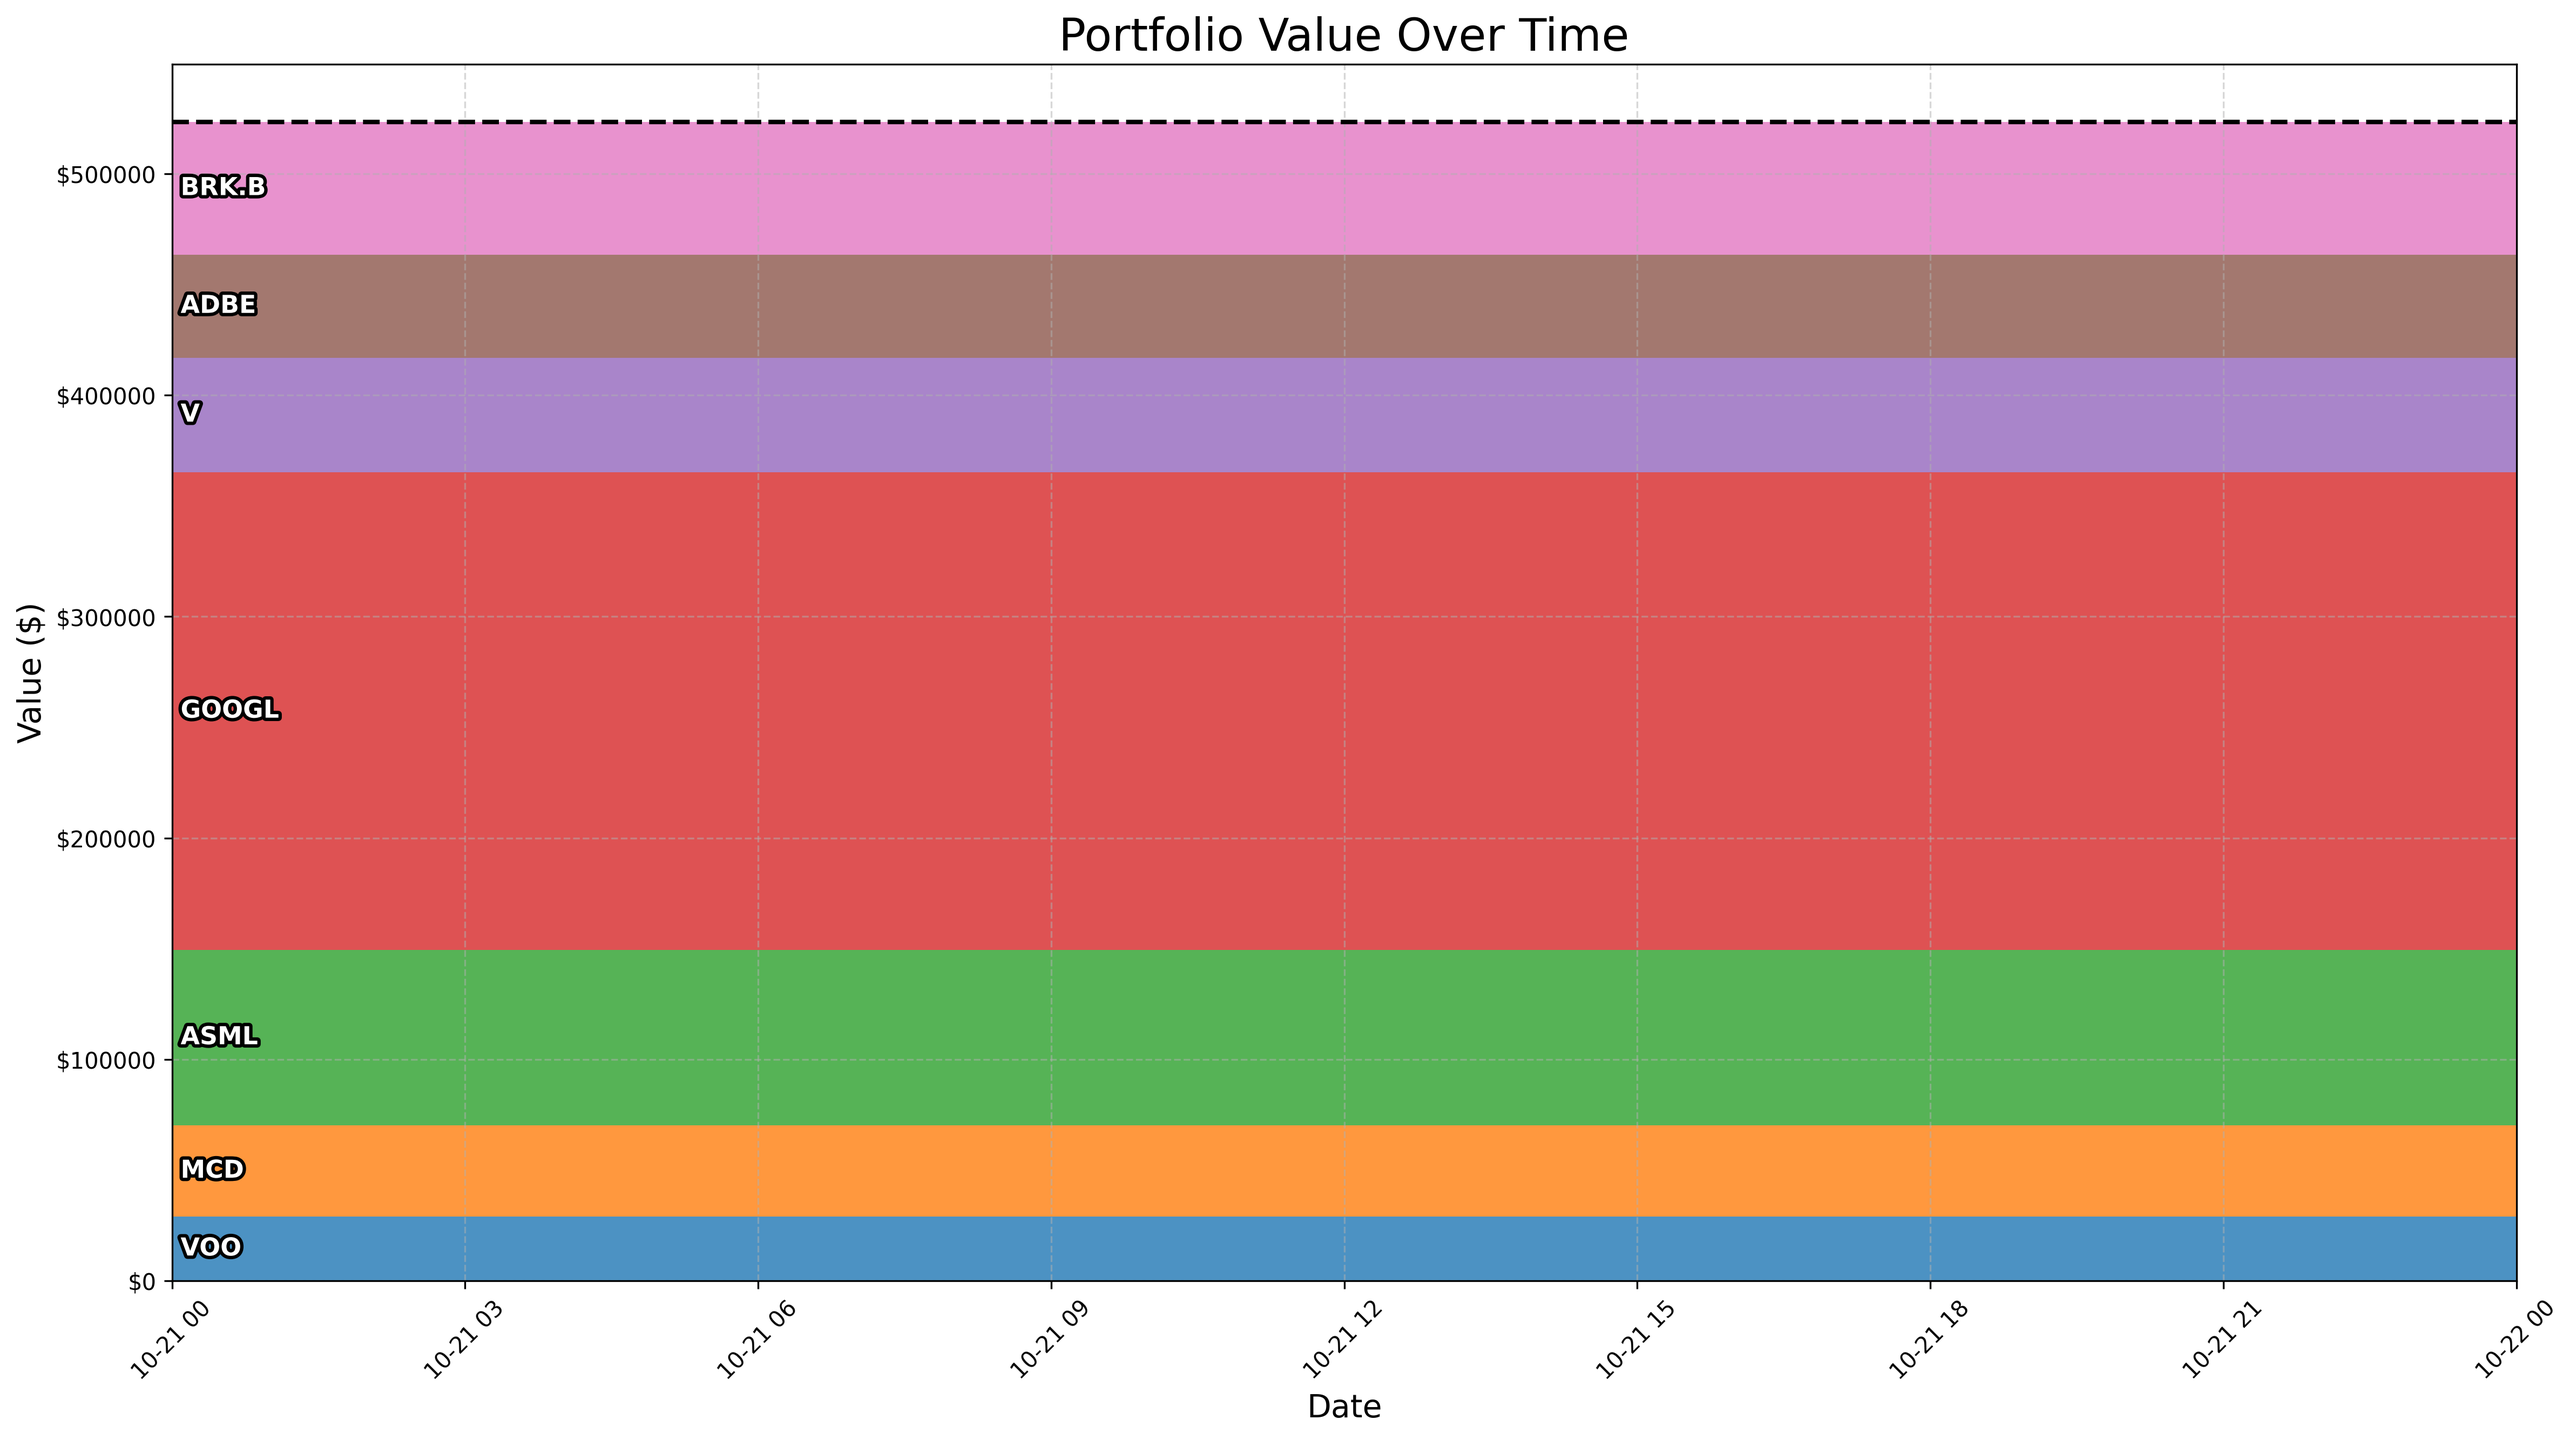
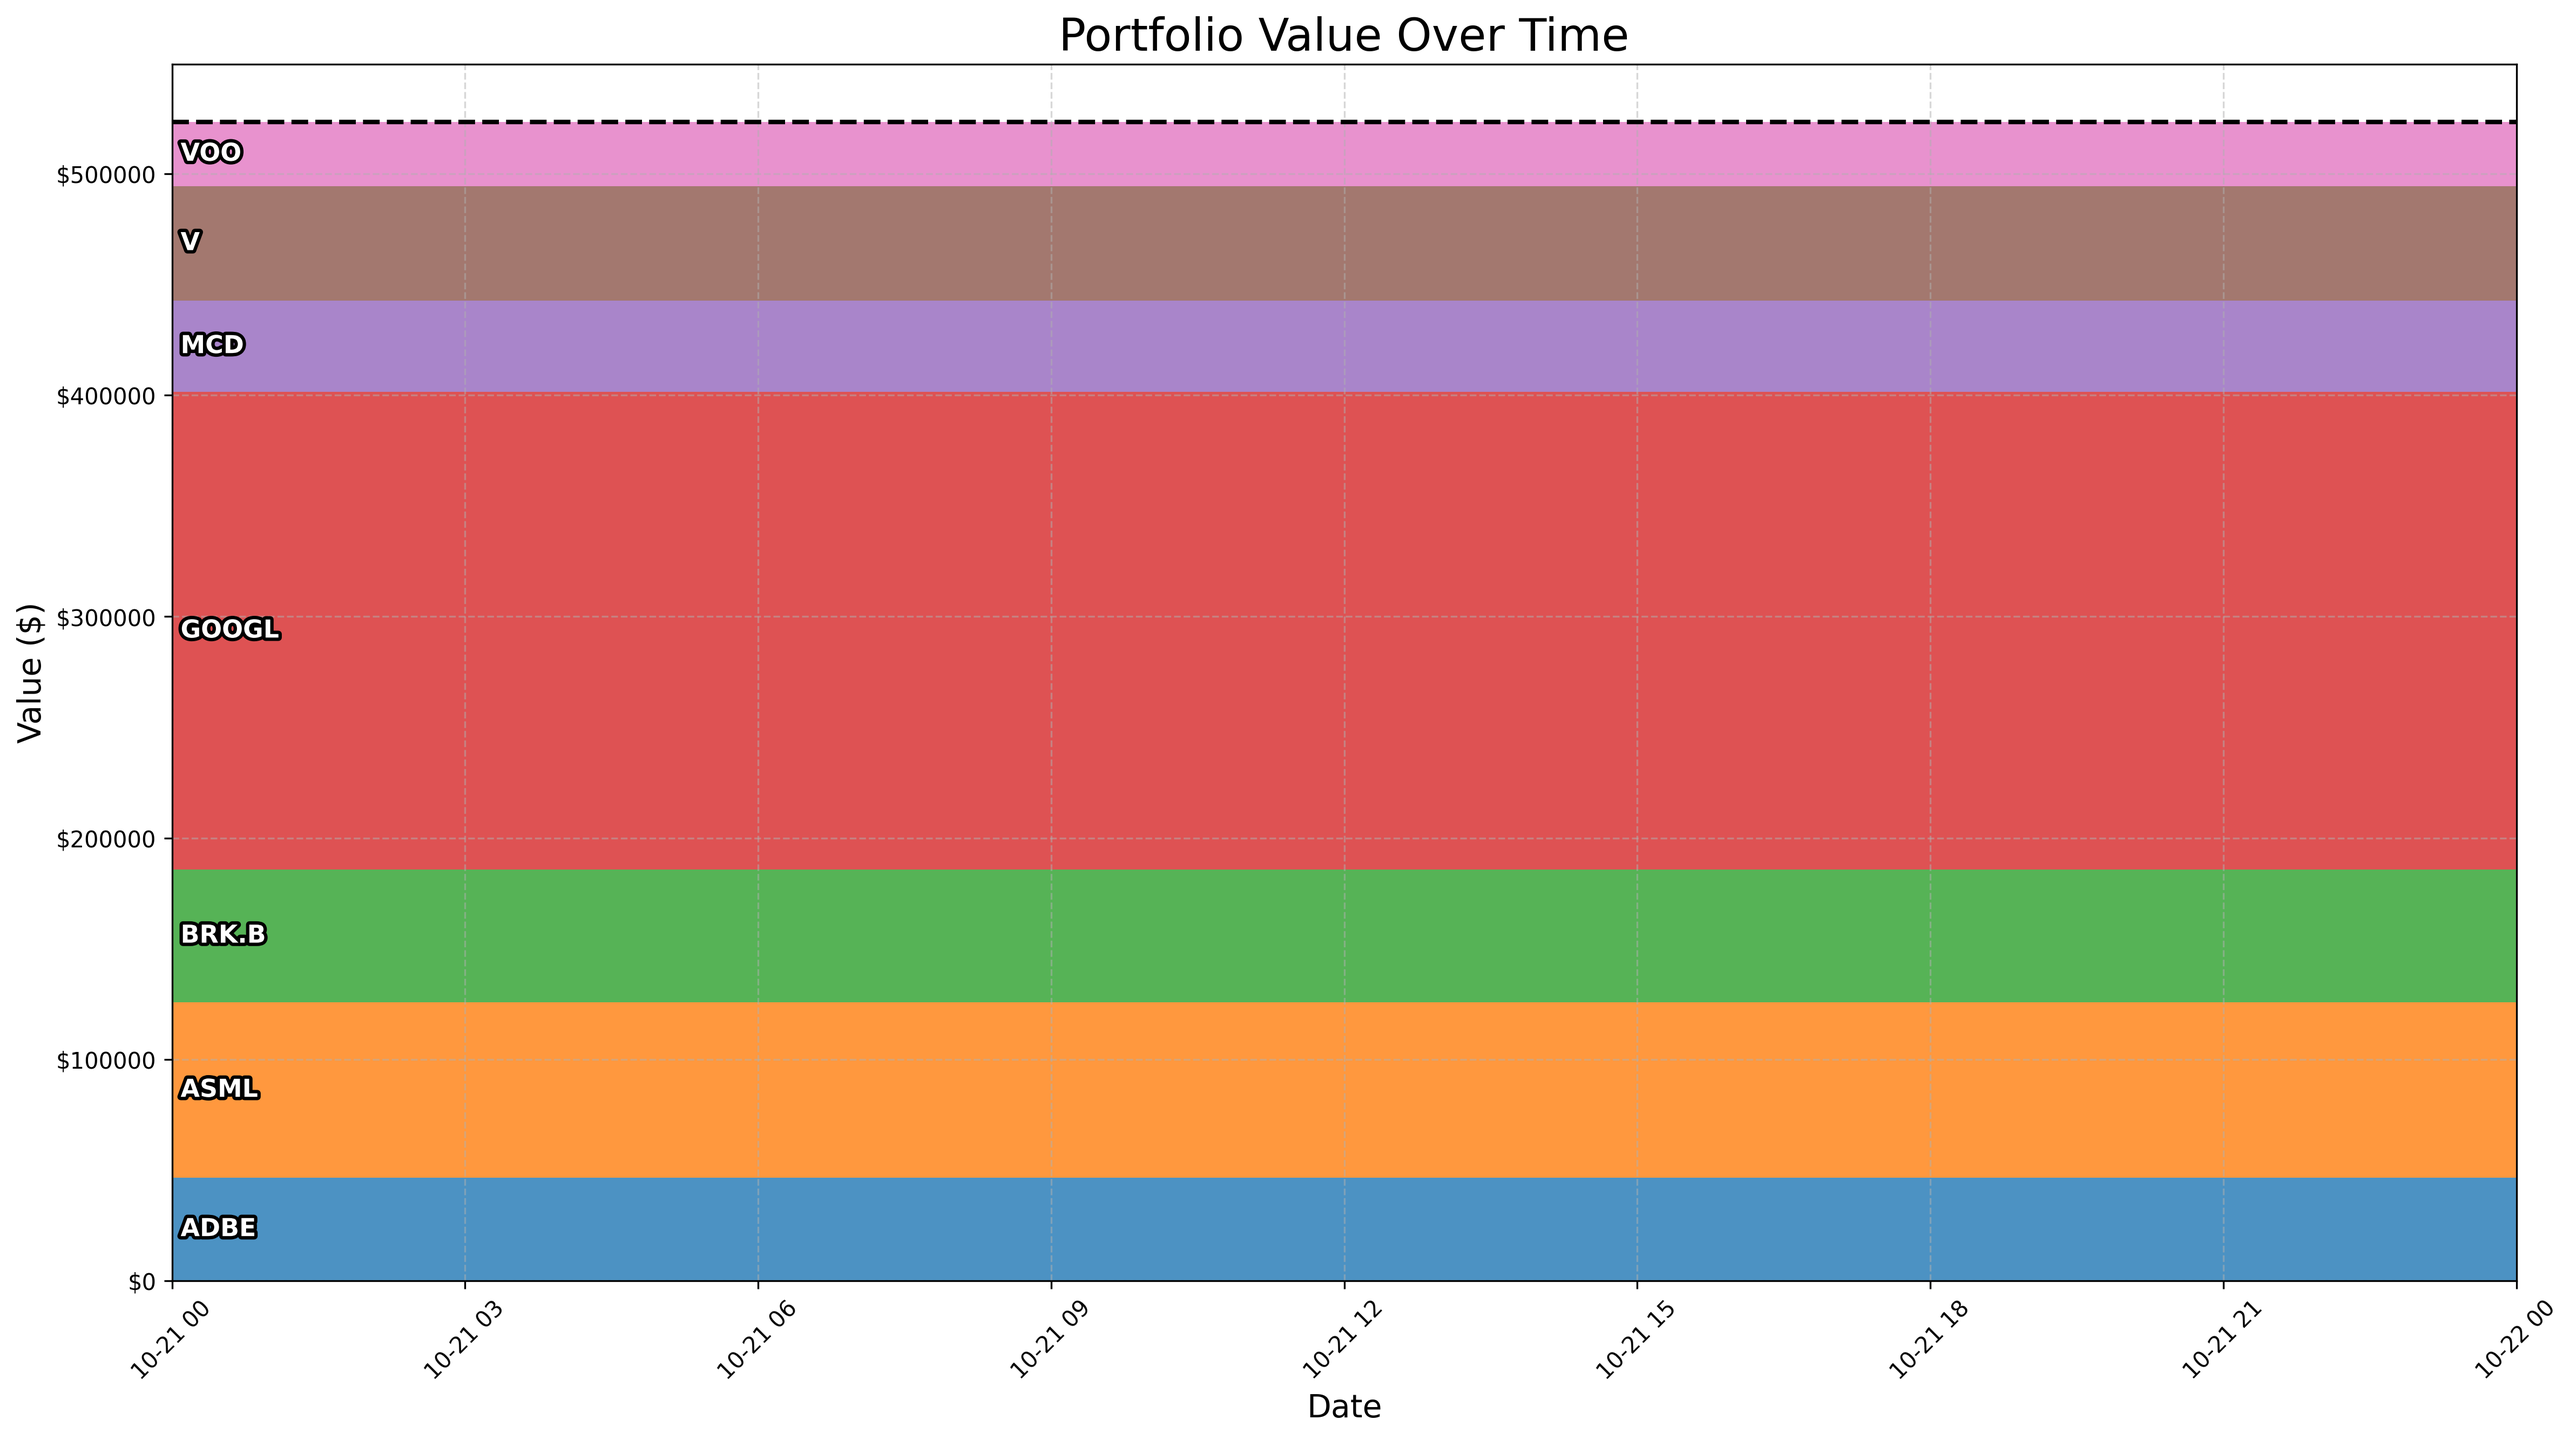
调整csv插入数据策略

Changed region(s): [[0.0625, 0.5911, 0.9994, 0.8711], [0.0625, 0.0933, 0.9994, 0.3422], [0.0625, 0.4044, 0.1249, 0.4978]]

diff --git a/main.py b/main.py
@@ -142,9 +142,15 @@ def calculate_portfolio_value() -> tuple[float, dict, Union[str, None]]:
 
 
 # ==============================================================================
-# 4. 将历史数据保存到文件 (无变化)
+# 4. 将历史数据保存到文件 (已按要求修改)
 # ==============================================================================
 def save_history(date_to_save: str, value_to_save: float, stock_values: dict):
+    """
+    将当前数据保存到历史文件。
+    - 如果文件不存在，则创建。
+    - 如果日期已存在，则覆盖更新该行。
+    - 如果是新日期，则将数据插入到文件的第一行。
+    """
     if not os.path.exists(HISTORY_FILE):
         current_tickers = sorted(stock_values.keys())
         header = 'date,total_value,' + ','.join(current_tickers) + '\n'
@@ -176,16 +182,24 @@ def save_history(date_to_save: str, value_to_save: float, stock_values: dict):
         df.reset_index(inplace=True)
         print(f"\n提示: 日期 {date_to_save} 的数据已存在，将进行覆盖更新。")
     else:
+        # --- 主要修改点 ---
+        # 创建新行 DataFrame
         new_row_df = pd.DataFrame([new_line_str.split(',')], columns=['date', 'total_value'] + all_tickers)
-        df = pd.concat([df, new_row_df], ignore_index=True)
-        print(f"\n成功: 已将日期 {date_to_save} 的新数据追加到 {HISTORY_FILE}")
+        # 将新行与旧的 DataFrame 合并，新行在前
+        df = pd.concat([new_row_df, df], ignore_index=True)
+        print(f"\n成功: 已将日期 {date_to_save} 的新数据插入到 {HISTORY_FILE} 的开头。")
 
     df.fillna(0, inplace=True)
+
+    # 为确保每次保存的列顺序一致，按规则重新排列列
+    final_columns = ['date', 'total_value'] + all_tickers
+    df = df[final_columns]
+
     df.to_csv(HISTORY_FILE, index=False, float_format='%.2f')
 
 
 # ==============================================================================
-# 5. 绘制历史价值图表 (最终版)
+# 5. 绘制历史价值图表 (已添加排序以兼容修改)
 # ==============================================================================
 def plot_history_graph(output_filename: str):
     """
@@ -196,6 +210,11 @@ def plot_history_graph(output_filename: str):
         print("找不到历史数据文件，无法绘制图表。")
         return
     df = pd.read_csv(HISTORY_FILE, index_col='date', parse_dates=True)
+
+    # --- 必要的新增行 ---
+    # 因为数据是按倒序存储的，绘图前必须按时间顺序对索引进行排序
+    df.sort_index(inplace=True)
+
     df.fillna(0, inplace=True)
     if len(df) < 2:
         print("历史数据不足两个点，无法生成图表。")
@@ -212,32 +231,24 @@ def plot_history_graph(output_filename: str):
     ax.plot(df.index, df['total_value'], color='black', linewidth=2, linestyle='--', label='Total Value')
 
     # --- 3. 核心修改: 在每个区域的建仓日（最左侧）添加带描边的标签 ---
-    # 预先计算出每日每个区域的“底部”Y坐标，这比在循环中计算更高效
     y_bottom_df = df[stock_columns].cumsum(axis=1).shift(1, axis=1).fillna(0)
 
     for col in stock_columns:
-        # 找到该股票第一次出现（价值>0）的日期
         first_holding_mask = df[col] > 0
         if not first_holding_mask.any():
-            continue  # 如果该股票从未被持有，则跳过
+            continue
 
         first_holding_day = first_holding_mask.idxmax()
-
-        # 获取建仓日当天的股票价值和其下方的基线价值
         stock_value_on_day = df.loc[first_holding_day, col]
         y_bottom_on_day = y_bottom_df.loc[first_holding_day, col]
-
-        # 计算标签的Y坐标：位于该区域当日的垂直中心
         label_y_pos = y_bottom_on_day + stock_value_on_day / 2.0
 
-        # 在图表上添加文字标签
-        ax.text(first_holding_day, label_y_pos, " " + col,  # 在文字前加空格作为内边距
-                ha='left',  # 水平左对齐
-                va='center',  # 垂直居中
-                color='white',  # 文字颜色为白色
+        ax.text(first_holding_day, label_y_pos, " " + col,
+                ha='left',
+                va='center',
+                color='white',
                 fontsize=11,
                 fontweight='bold',
-                # 添加描边效果：3个像素宽的黑色描边
                 path_effects=[path_effects.withStroke(linewidth=3, foreground='black')])
 
     ax.set_title('Portfolio Value Over Time', fontsize=20)
@@ -246,8 +257,6 @@ def plot_history_graph(output_filename: str):
     ax.grid(True, linestyle='--', alpha=0.5)
     formatter = mticker.FormatStrFormatter('$%1.0f')
     ax.yaxis.set_major_formatter(formatter)
-
-    # 精确设置X轴范围，使其从第一个日期开始，到最后一个日期结束
     ax.set_xlim(df.index[0], df.index[-1])
 
     plt.xticks(rotation=45)
